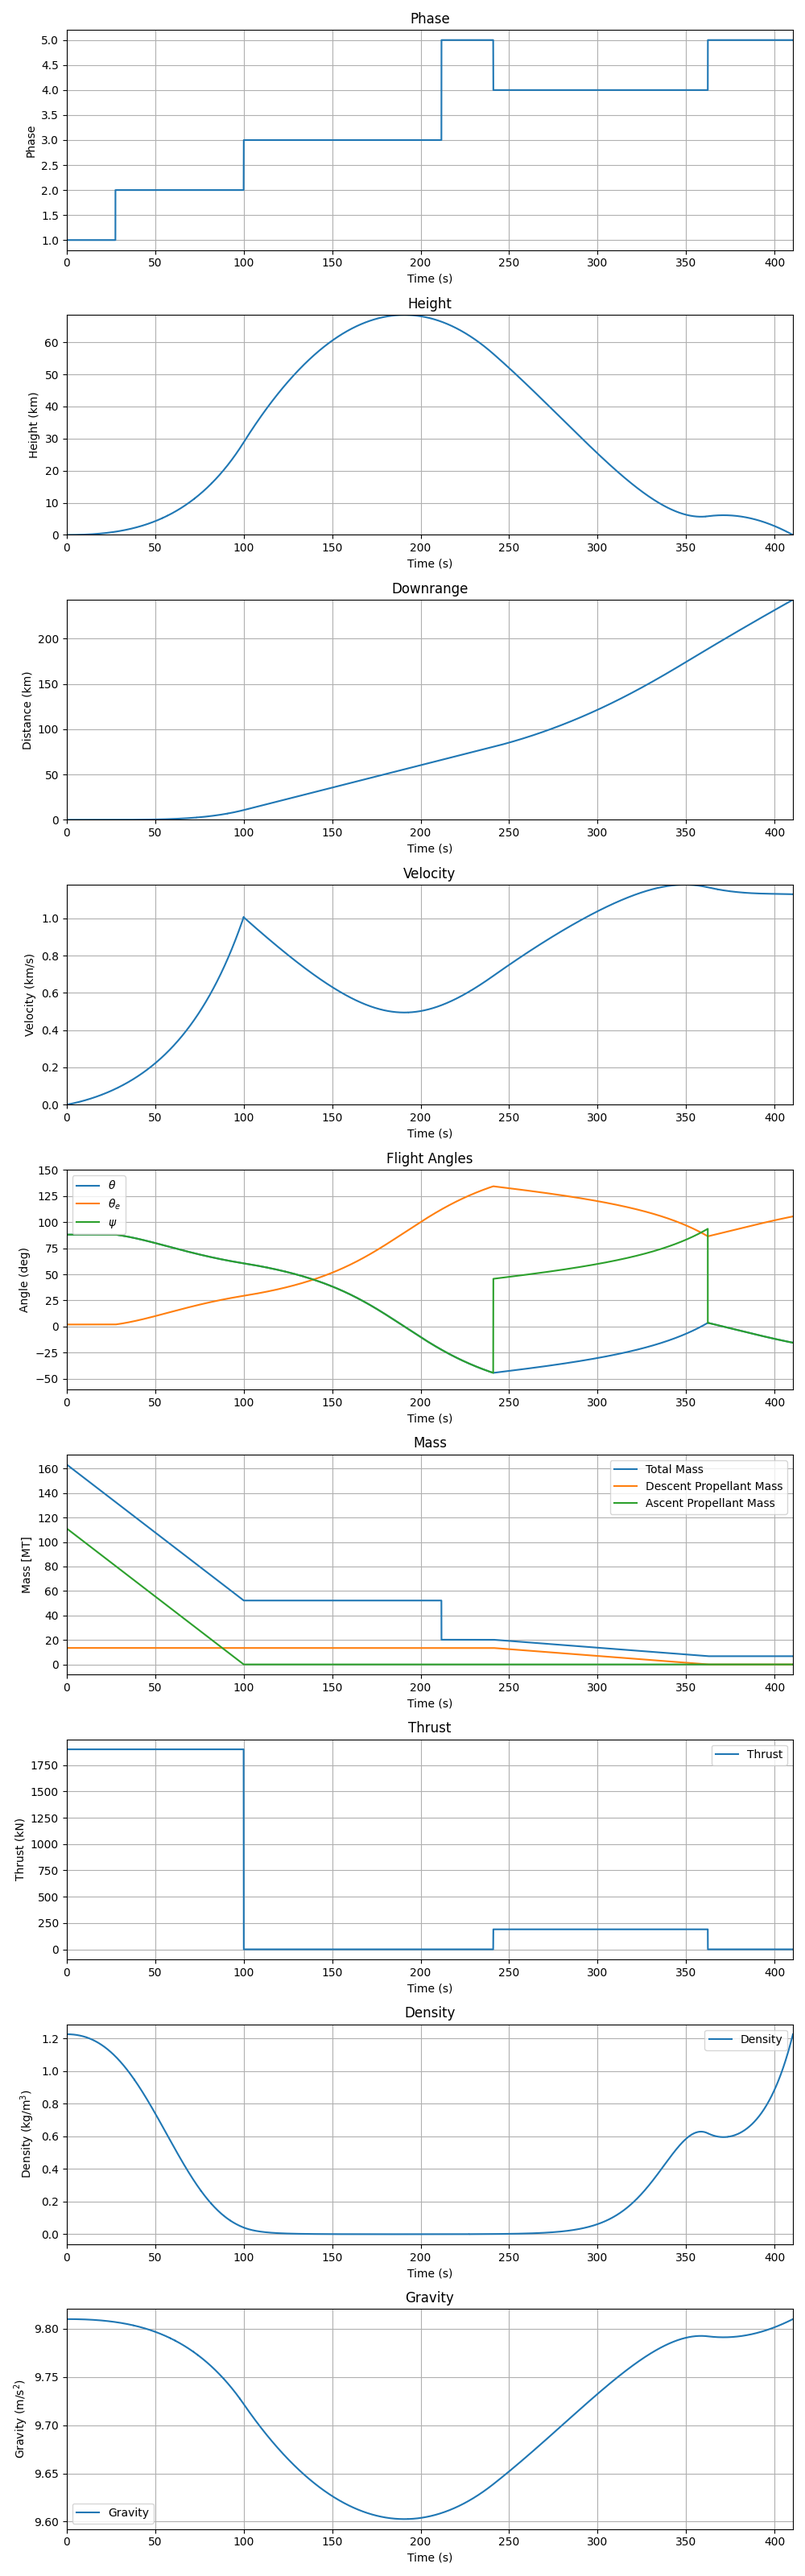
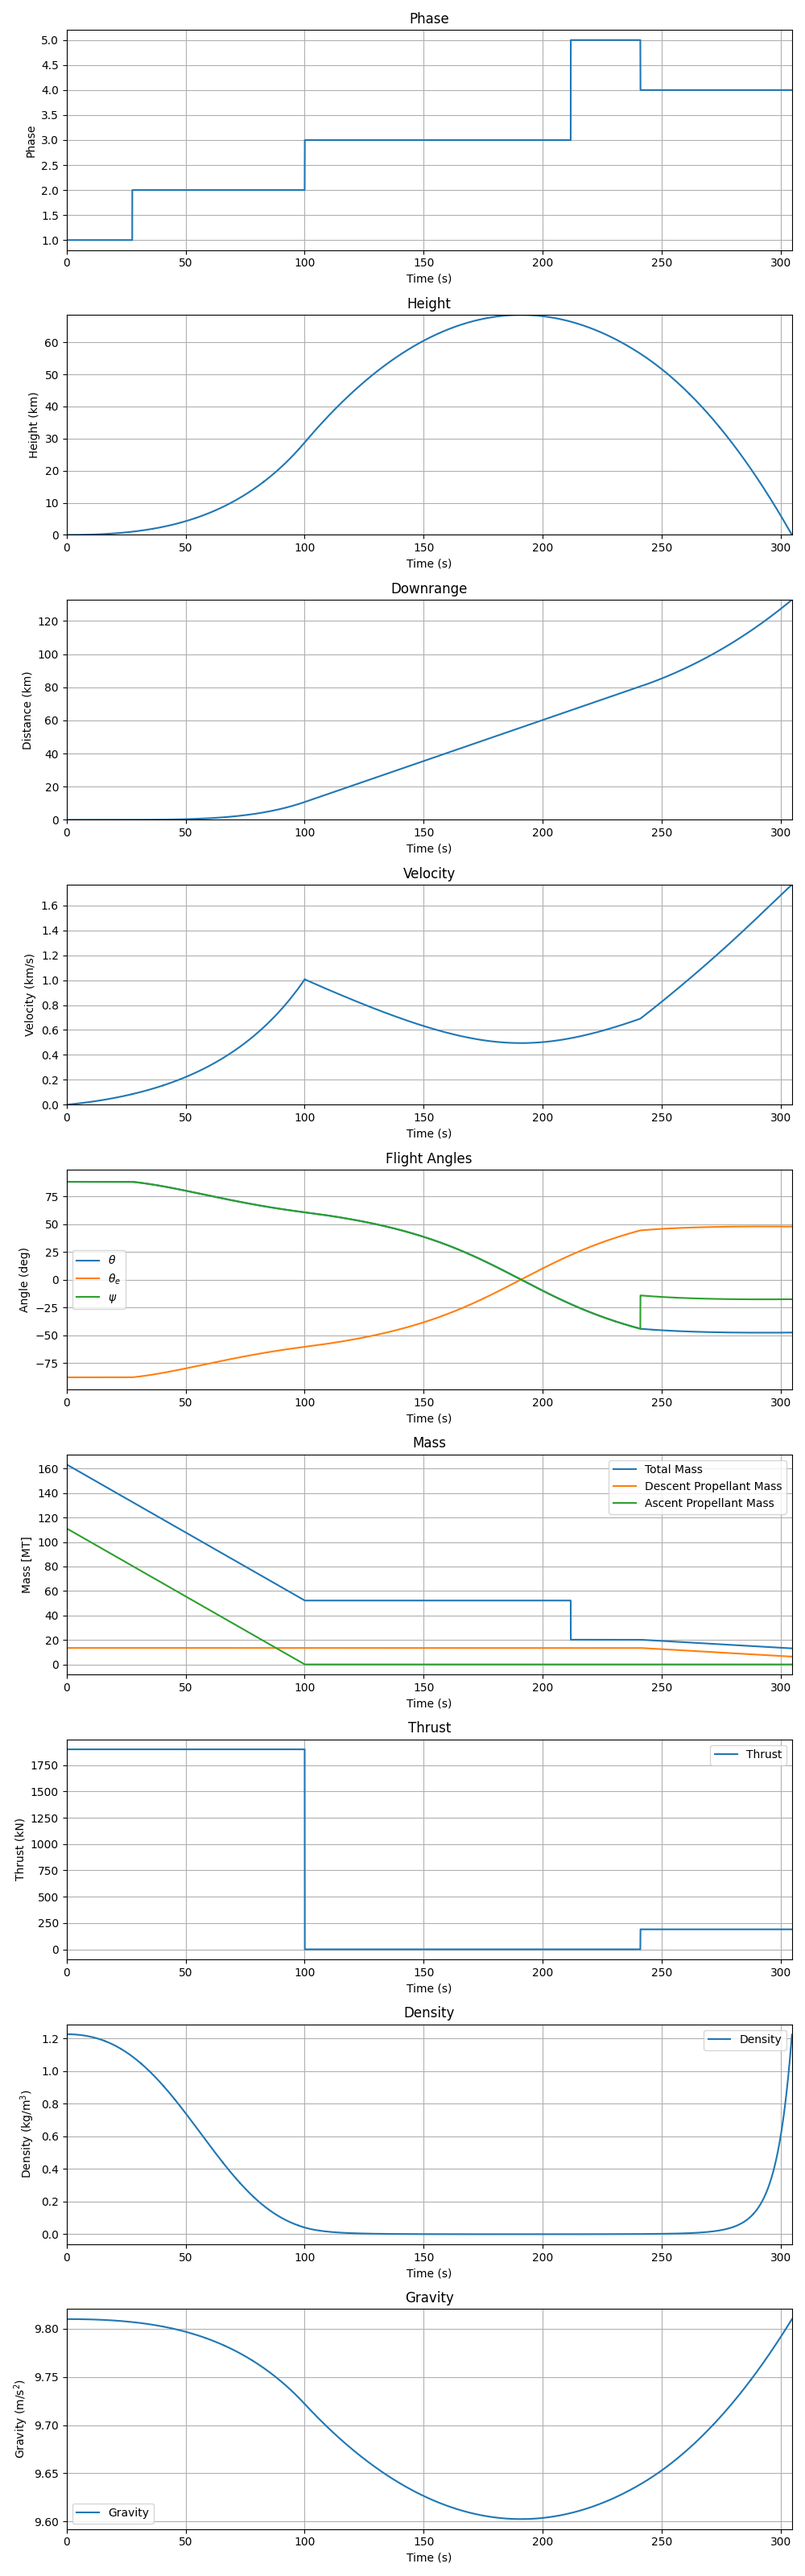
Audibiling to optimizing for downrange

diff --git a/src/trajectory.py b/src/trajectory.py
@@ -115,7 +115,7 @@ def ode_equations(t,y):
 
         # Phase
         util_values["phase"] = 4
-        Cl = 0.3
+        Cl = 0
         
         # Determine TVC correction
         util_values['psi'], util_values['theta_error'] = pidController.get_psi_correction(theta, util_values['psi'], util_values['theta_error'], util_values['dt'])
@@ -134,17 +134,12 @@ def ode_equations(t,y):
         h_dot = v*np.sin(theta)
         x_dot = v*np.cos(theta)
 
-        # print("First Term:", (F*np.sin(util_values['psi']-theta))/(m*v))
-        # print("Second Term:", (Cl*rho*v*Ap)/(2*m))
-        # print("Third Term:",(g*np.cos(theta))/v)
-        # print("Overall:", theta_dot)
-
     # Post descent
     else:
 
         # Phase
         util_values["phase"] = 5
-        Cl = 0.3
+        Cl = 0
 
         # Determine TVC correction
         util_values['psi'], util_values['theta_error'] =pidController.get_psi_correction(theta, util_values['psi'], util_values['theta_error'], util_values['dt'])
@@ -203,7 +198,7 @@ if __name__ == '__main__':
     # Rocket Defintions
     diam = 3.05
     Ap = np.pi/(4*diam**2)
-    Cd = 0.3
+    Cd = 0.2
     Cl = 0.3
 
     # Masses
@@ -234,11 +229,11 @@ if __name__ == '__main__':
     # Controller
     #------------------------------------------------
     # PID
-    Kp = 8
+    Kp = 1
     Ki = 0
     Kd = 0
-    desired_flight_path_angle = 90
-    bounds = 90
+    desired_flight_path_angle = 0
+    bounds = 30
     pidController = Controller(Kp, Ki, Kd, desired_flight_path_angle, bounds)
 
     #------------------------------------------------

diff --git a/src/controller.py b/src/controller.py
@@ -1,6 +1,9 @@
 # Pkg imports
 import numpy as np
 
+# Local imports
+from util import normalize_radians
+
 class Controller:
     def __init__(self, Kp, Ki, Kd, setpoint, bounds):
         self.Kp = Kp                    # [dimless]
@@ -47,4 +50,4 @@ class Controller:
                 psi_correction = lower_bound
 
         # Return (Swap error and psi_correction back to rads)
-        return np.radians(psi_correction), np.radians(error)
+        return normalize_radians(np.radians(psi_correction)), normalize_radians(np.radians(error))
